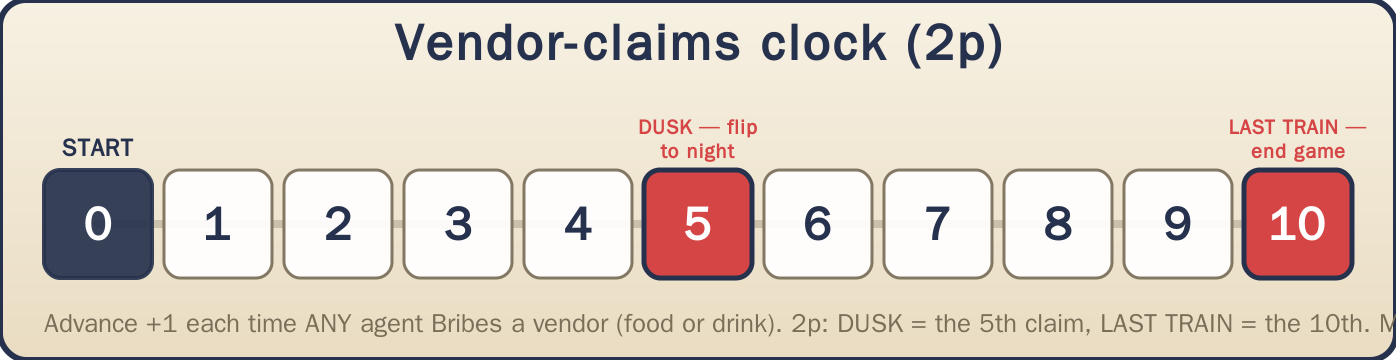
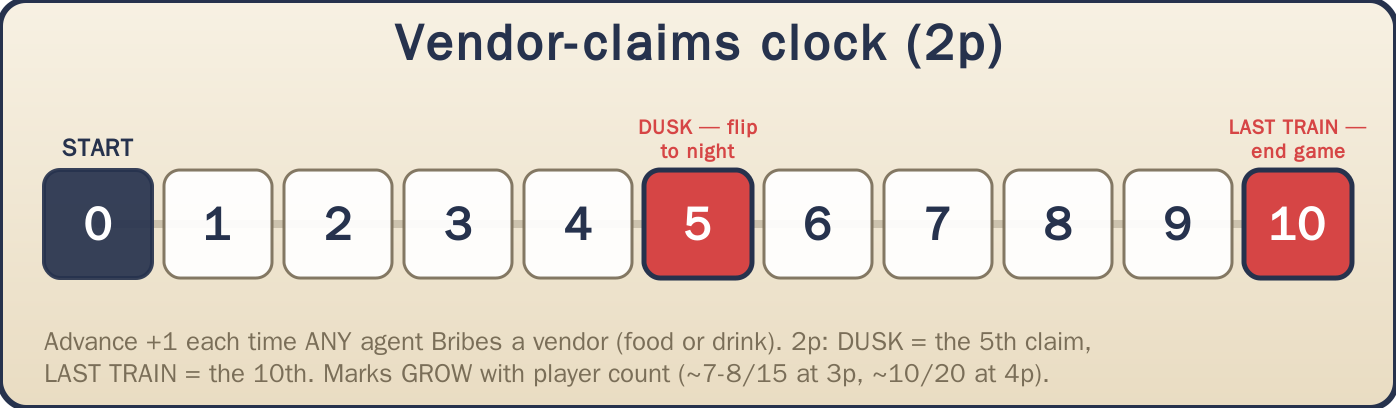
Wrap the score-track footer note so long --note text stops clipping
Why: render_scoretrack drew the --note as a single unwrapped <text> at
26px, so it overran the panel width and the PNG cropped it at the right
edge — all three tracks lost the end of their note ("…Winning a v",
"…Ticket's patte", "…the 10th. M"). Now the note is textwrap-wrapped to
the panel's inner width and the panel height grows to fit however many
lines it needs (mirrors how render_aid already handles notes). Purely
additive vertical space — only improves any game using scoretrack.
Regenerated the reach / tours / clock tracks.

Claude-Session: https://claude.ai/code/session_01BYsTkbsM578kobte3YG9zo

diff --git a/tools/boards/build_board.py b/tools/boards/build_board.py
@@ -549,7 +549,11 @@ def render_scoretrack(theme, max_v, per_row, title, milestones, note, start_labe
     call_h = 78                                   # room above each row for (up to 2-line) milestone call-outs
     row_h = cell + call_h + gap
     W = pad * 2 + per_row * (cell + gap) - gap
-    H = title_h + rows * row_h + 70
+    # Wrap the footer note to the panel width so a long --note never clips at the right edge
+    # (bg-infodesign): grow the panel height to fit however many wrapped lines it needs.
+    note_lines = textwrap.wrap(note, max(20, int((W - 2 * pad) / 14))) if note else []
+    note_block_h = (len(note_lines) * 32 + 24) if note_lines else 40
+    H = title_h + rows * row_h + 30 + note_block_h
 
     def cell_xy(v):
         row = v // per_row
@@ -601,9 +605,11 @@ def render_scoretrack(theme, max_v, per_row, title, milestones, note, start_labe
             for j, seg in enumerate(segs):
                 parts.append(f'<text x="{x+cell/2}" y="{base + j*24}" font-size="20" fill="{accent}" '
                              f'text-anchor="middle" font-family="{tfont}" font-weight="bold">{esc(seg)}</text>')
-    if note:
-        parts.append(f'<text x="{pad}" y="{H-28}" font-size="26" fill="{muted}" '
-                     f'font-family="{bfont}" font-style="italic">{esc(note)}</text>')
+    if note_lines:
+        ny = H - note_block_h + 30
+        for i, ln in enumerate(note_lines):
+            parts.append(f'<text x="{pad}" y="{ny + i*32}" font-size="26" fill="{muted}" '
+                         f'font-family="{bfont}" font-style="italic">{esc(ln)}</text>')
     return _svg(W, H, parts), W, H
 
 
